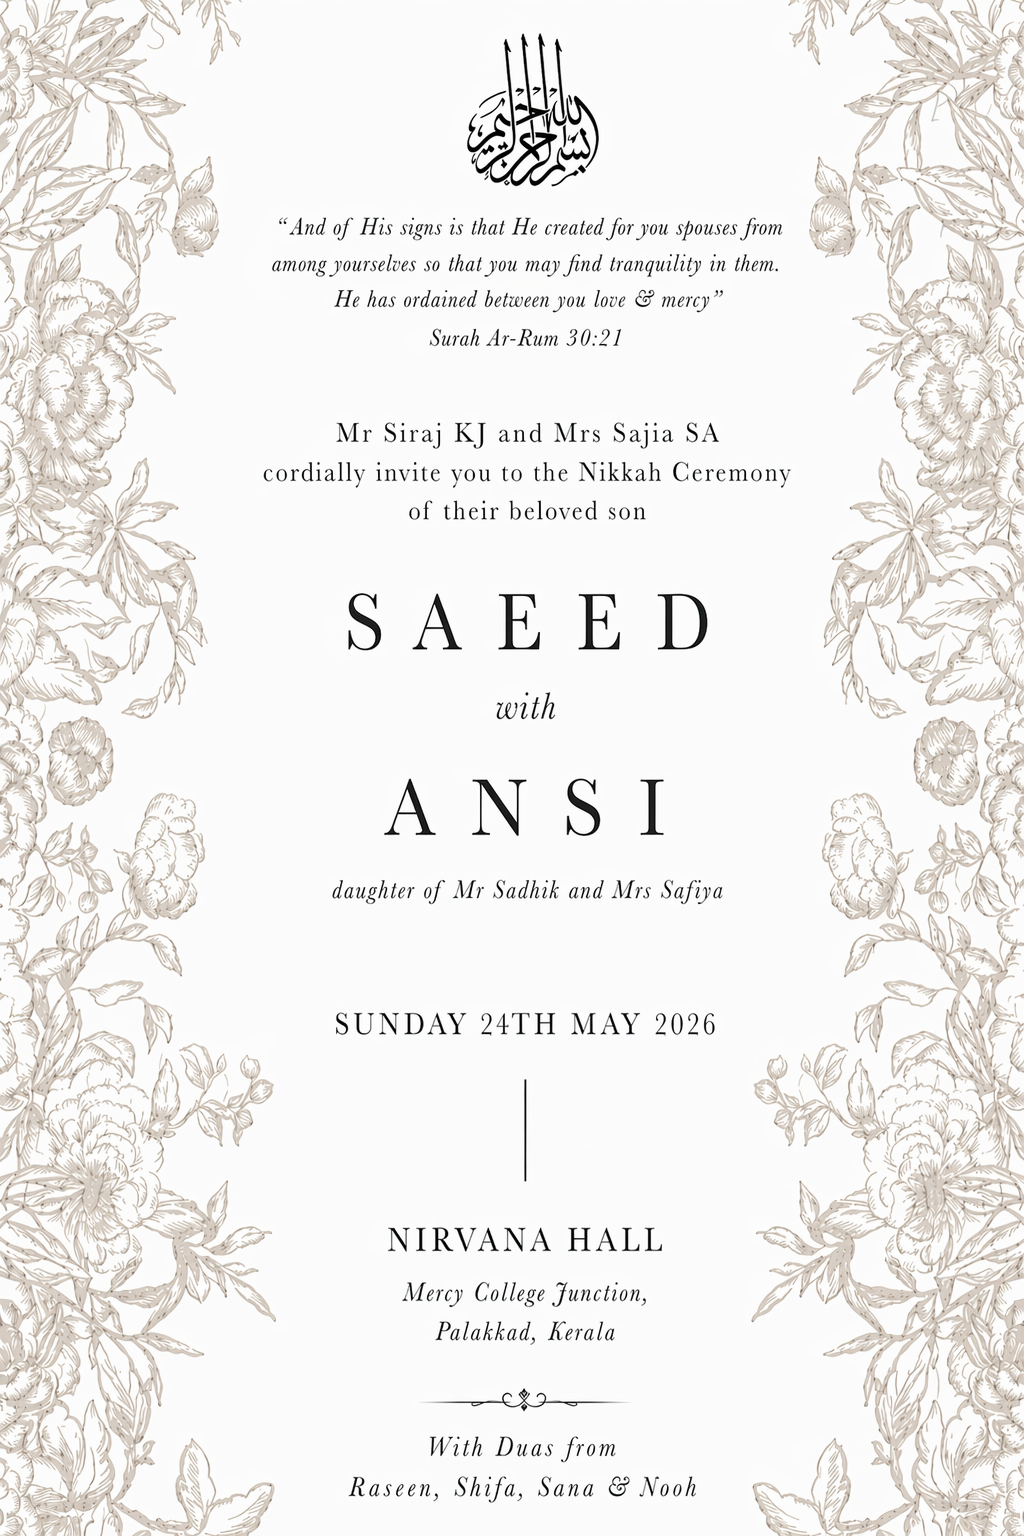
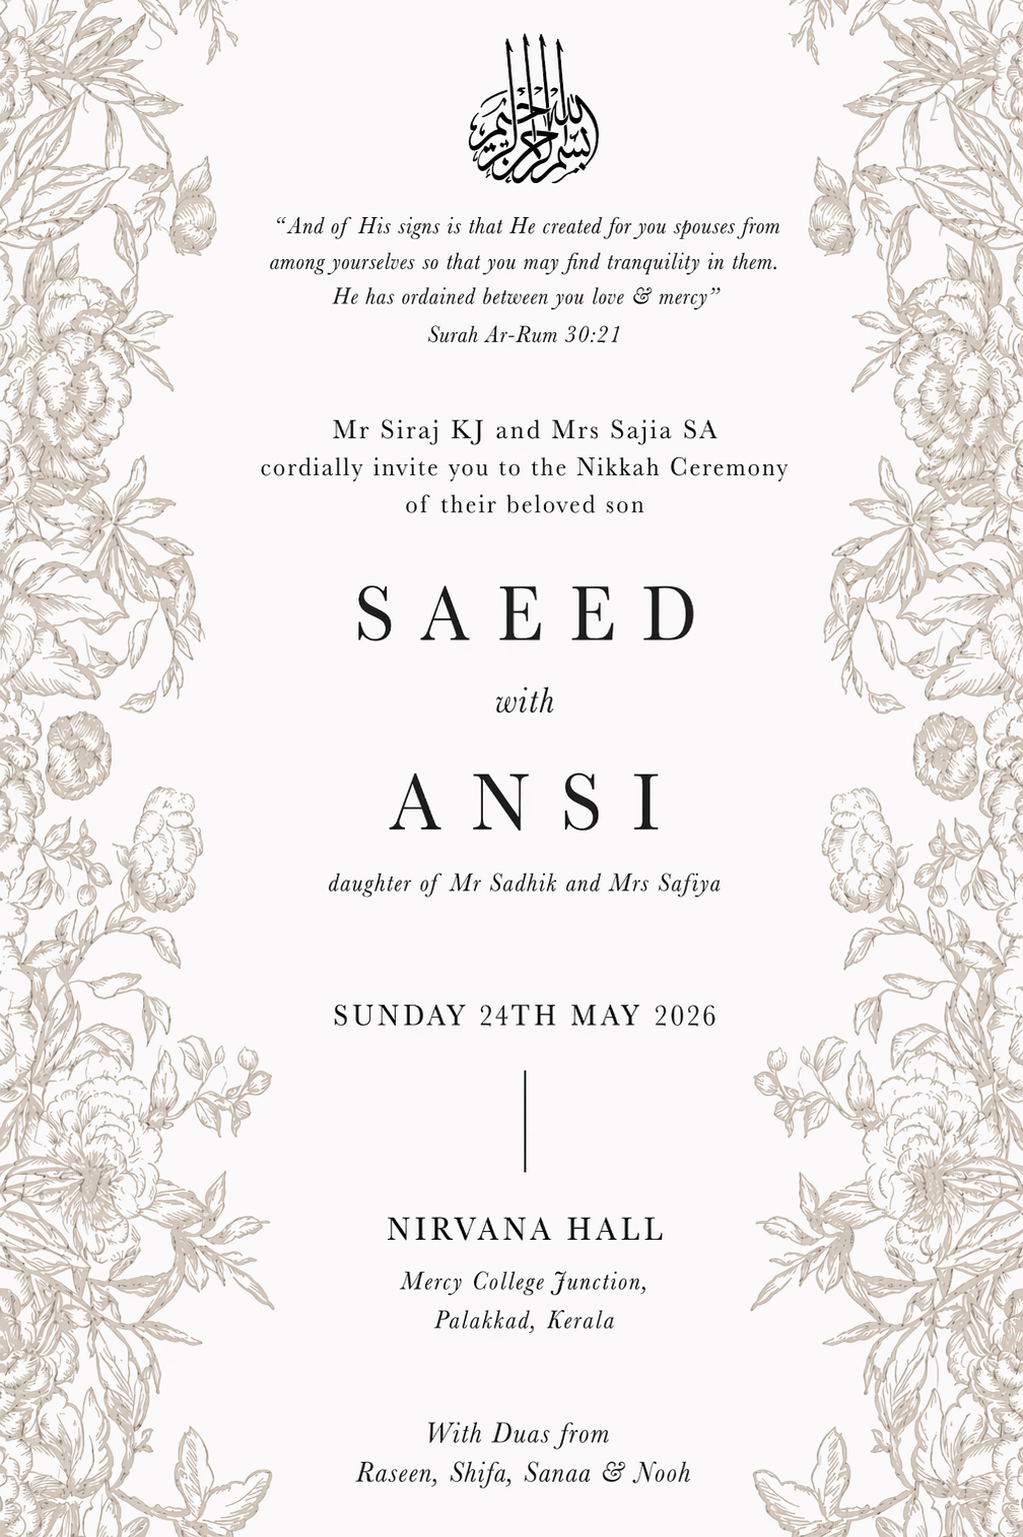
Integrated verse ornament, refined hero section visibility, fixed mobile video layout, and removed gaps.

diff --git a/style.css b/style.css
@@ -157,6 +157,7 @@ h1, h2, h3, .logo, .date-digit, .time, .couple-names-main {
     height: auto;
     object-fit: cover;
     border-radius: 4px;
+    opacity: 0.4;
     will-change: transform;
     backface-visibility: hidden;
     transform: translateZ(0); /* Force GPU layer */
@@ -174,6 +175,7 @@ h1, h2, h3, .logo, .date-digit, .time, .couple-names-main {
     display: flex;
     flex-direction: column;
     align-items: center;
+    color: #000; /* Default text color to black for this section */
 }
 
 /* Old floral styles removed */
@@ -196,7 +198,7 @@ h1, h2, h3, .logo, .date-digit, .time, .couple-names-main {
 .guest-subtitle {
     font-size: 0.8rem;
     letter-spacing: 0.3em;
-    color: var(--text-secondary);
+    color: #000;
     text-transform: uppercase;
     margin-bottom: 0.5rem;
     font-weight: 600;
@@ -205,7 +207,7 @@ h1, h2, h3, .logo, .date-digit, .time, .couple-names-main {
 .bismillah-text-arabic {
     font-family: 'Aref Ruqaa', 'Amiri', serif;
     font-size: clamp(1.8rem, 8vw, 2.6rem); /* Slightly smaller to fit perfectly */
-    color: var(--text-primary);
+    color: #000;
     margin-bottom: 0.8rem;
     letter-spacing: normal;
     line-height: 1.2;
@@ -217,7 +219,7 @@ h1, h2, h3, .logo, .date-digit, .time, .couple-names-main {
 .blessing-text {
     font-size: 0.85rem;
     letter-spacing: 0.05em;
-    color: var(--text-secondary);
+    color: #000;
     margin-bottom: 1.2rem;
     font-style: italic;
     font-family: 'Inter', sans-serif;
@@ -228,7 +230,7 @@ h1, h2, h3, .logo, .date-digit, .time, .couple-names-main {
 .couple-names-main {
     font-size: clamp(2.4rem, 9vw, 5rem);
     letter-spacing: 0.02em;
-    color: var(--text-primary);
+    color: #000;
     margin-bottom: 1.5rem; /* Balanced spacing */
     line-height: 1.1;
     white-space: nowrap;
@@ -242,7 +244,7 @@ h1, h2, h3, .logo, .date-digit, .time, .couple-names-main {
 .hero-date-small, .hero-location-small {
     font-size: 0.65rem; /* Much smaller for that premium stationary feel */
     letter-spacing: 0.25em;
-    color: var(--text-primary);
+    color: #000;
     text-transform: uppercase;
     margin-bottom: 0.8rem;
     font-family: 'Inter', sans-serif;
@@ -285,7 +287,7 @@ h1, h2, h3, .logo, .date-digit, .time, .couple-names-main {
 
 /* Verse Card Section */
 #verse-card {
-    padding: 1rem 0 5rem;
+    padding: 0 0 5rem;
     background: var(--bg-white);
     text-align: center;
 }
@@ -452,11 +454,22 @@ h1, h2, h3, .logo, .date-digit, .time, .couple-names-main {
 .arabic-quote-footer {
     font-family: 'Aref Ruqaa', 'Amiri', serif;
     font-size: clamp(1.2rem, 5vw, 2.2rem);
-    color: var(--text-primary);
-    line-height: 1.8;
+    color: #000;
+    line-height: 1.35; /* Standard gap */
     margin-bottom: 2rem;
     direction: rtl;
-    opacity: 0.8;
+    opacity: 1; /* Fully opaque for contrast */
+}
+
+.verse-ornament-inline {
+    display: inline-block;
+    vertical-align: middle;
+    width: clamp(28px, 6vw, 38px);
+    height: auto;
+    margin-right: 12px;
+    opacity: 0.95;
+    mix-blend-mode: multiply;
+    transform: translateY(-2px); /* Fine-tune vertical alignment */
 }
 
 .footer-divider-ornament {
@@ -590,12 +603,28 @@ footer p { margin-bottom: 0.5rem; }
     
     #hero {
         padding: 0;
+        margin: 0;
+        width: 100vw;
+        height: 100vh;
+        height: 100dvh;
+        display: flex;
+        align-items: center;
         justify-content: center;
-        min-height: auto;
+        overflow: hidden;
+        background: var(--bg-white); /* Match the site's cream background */
+    }
+
+    .hero-video {
+        width: 100vw;
+        max-width: none;
+        height: 100%;
+        object-fit: cover;
+        border-radius: 0;
+        opacity: 0.4; /* Set to requested level */
     }
 
     #verse-card {
-        padding: 1.5rem 0;
+        padding: 0;
     }
     
     .hero-content {

diff --git a/index.html b/index.html
@@ -120,7 +120,10 @@
         <!-- FOOTER CALIGRAPHY -->
         <footer class="luxury-footer reveal">
             <div class="footer-calligraphy-wrap">
-                <p class="arabic-quote-footer">وَمِنْ آيَاتِهِ أَنْ خَلَقَ لَكُم مِّنْ أَنفُسِكُمْ أَزْوَاجًا لِّتَسْكُنُوا إِلَيْهَا وَجَعَلَ بَيْنَكُم مَّوَدَّةً وَرَحْمَةً</p>
+                <p class="arabic-quote-footer">
+                    وَمِنْ آيَاتِهِ أَنْ خَلَقَ لَكُم مِّنْ أَنفُسِكُمْ أَزْوَاجًا لِّتَسْكُنُوا إِلَيْهَا وَجَعَلَ بَيْنَكُم مَّوَدَّةً وَرَحْمَةً
+                    <img src="verse_ornament_21.png" alt="21" class="verse-ornament-inline">
+                </p>
                 <div class="footer-divider-ornament"></div>
             </div>
         </footer>
